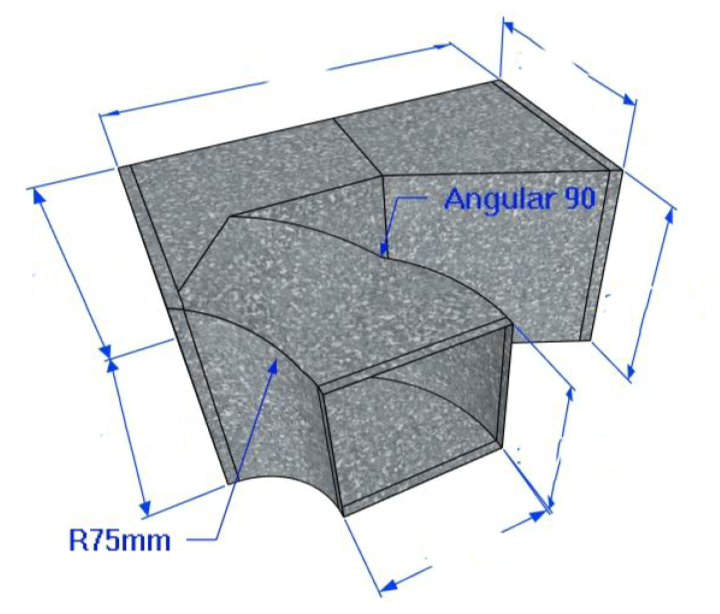
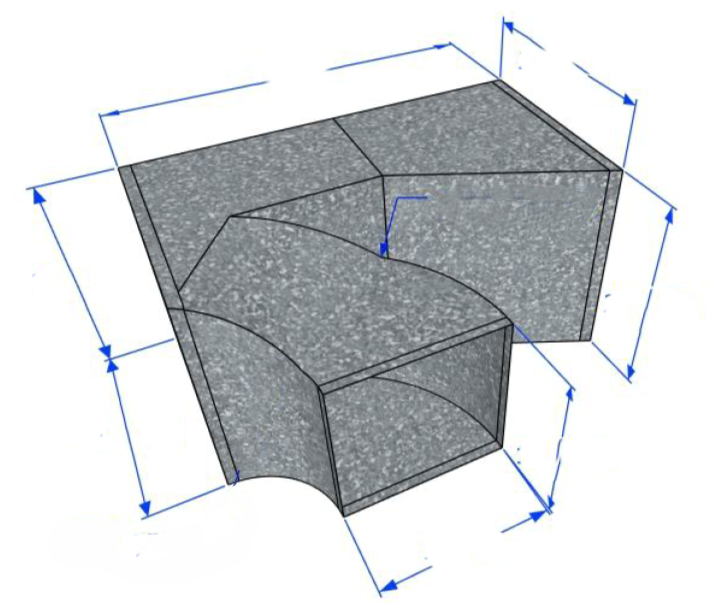
update angular

diff --git a/style.css b/style.css
@@ -325,7 +325,7 @@ select.field-input {
   white-space: nowrap;
   box-shadow: 0 1px 6px rgba(0,0,0,0.12);
 }
-.y-duct-label-a { top: 14%; right: 14%; }
+.y-duct-label-a { top: 5%; right: 25%; }
 .y-duct-label-b { top: 34%; right: 16%; }
 .y-duct-label-e { top: 38%; left: 16%; }
 .y-duct-label-f { top: 62%; left: 16%; }
@@ -333,28 +333,32 @@ select.field-input {
 .y-duct-label-d { top: 82%; left: 60%; }
 .y-duct-label-r { top: 52%; left: 42%; }
 .y-duct-label-l { top: 10%; left: 42%; }
+.y-duct-label-angular { top: 24%; left: 56%; }
 .r-type-label,
 .butterfly-label {
   transform: translate(-50%, -50%);
   text-align: center;
   min-width: 32px;
 }
-.r-type-label-a { top: 74%; left: 6%; }
-.r-type-label-b { top: 50%; left: 6%; }
+.r-type-label-a { top: 74%; left: 24%; }
+.r-type-label-b { top: 50%; left: 12%; }
 .r-type-label-e { top: 60%; right: 8%; }
-.r-type-label-f { top: 38%; right: 14%; }
-.r-type-label-c { top: 12%; right: 14%; }
-.r-type-label-d { top: 82%; right: 12%; }
-.r-type-label-r { top: 52%; left: 50%; }
-.r-type-label-l { top: 14%; left: 48%; }
+.r-type-label-f { top: 72%; right: 22%; }
+.r-type-label-c { top: 5%; right: 37%; }
+.r-type-label-d { top: 30%; right: 25%; }
+.r-type-label-r { top: 90%; left: 55%; }
+.r-type-label-l { top: 12%; left: 30%; }
+.r-type-label-angle { top: 18%; left: 58%; }
 .butterfly-label-a { top: 88%; left: 50%; }
 .butterfly-label-b { top: 76%; left: 24%; }
 .butterfly-label-c { top: 20%; left: 14%; }
 .butterfly-label-d { top: 42%; left: 10%; }
-.butterfly-label-r1 { top: 16%; left: 34%; }
+.butterfly-label-r1 { top: 75%; left: 15%; }
 .butterfly-label-e { top: 24%; right: 12%; }
 .butterfly-label-f { top: 48%; right: 10%; }
-.butterfly-label-r2 { top: 16%; left: 66%; }
+.butterfly-label-r2 { top: 75%; left: 75%; }
+.butterfly-label-angular-top-left { top: 10%; left: 32%; }
+.butterfly-label-angular-top-right { top: 10%; left: 68%; }
 .y-duct-static {
   width: 100%;
   height: 100%;

diff --git a/app.js b/app.js
@@ -13,7 +13,8 @@ function renderStaticLabelOverlay(overlay, f, labels) {
   if (!overlay) return;
   overlay.innerHTML = labels
     .map(label => {
-      const value = +f[label.id] > 0 ? `${f[label.id]} mm` : '';
+      const hasFieldValue = label.id && +f[label.id] > 0;
+      const value = hasFieldValue ? `${f[label.id]} mm` : '';
       return `<span class="y-duct-label ${label.cls}">${label.title}${value ? ' ' + value : ''}</span>`;
     })
     .join('');
@@ -29,6 +30,7 @@ function renderYLabelOverlay(overlay, f) {
     { id: 'D', title: 'D', cls: 'y-duct-label-d' },
     { id: 'R', title: 'R', cls: 'y-duct-label-r' },
     { id: 'L', title: 'L', cls: 'y-duct-label-l' },
+    { title: 'Angular', cls: 'y-duct-label-angular' },
   ]);
 }
 
@@ -42,6 +44,7 @@ function renderRTypeLabelOverlay(overlay, f) {
     { id: 'D2', title: 'D', cls: 'r-type-label-d' },
     { id: 'R', title: 'R', cls: 'r-type-label-r' },
     { id: 'L', title: 'L', cls: 'r-type-label-l' },
+    { title: 'Angular', cls: 'r-type-label-angle' },
   ]);
 }
 
@@ -55,6 +58,8 @@ function renderButterflyLabelOverlay(overlay, f) {
     { id: 'E', title: 'E', cls: 'butterfly-label-e' },
     { id: 'F', title: 'F', cls: 'butterfly-label-f' },
     { id: 'R2', title: 'R2', cls: 'butterfly-label-r2' },
+    { title: 'Angular', cls: 'butterfly-label-angular-top-left' },
+    { title: 'Angular', cls: 'butterfly-label-angular-top-right' },
   ]);
 }
 